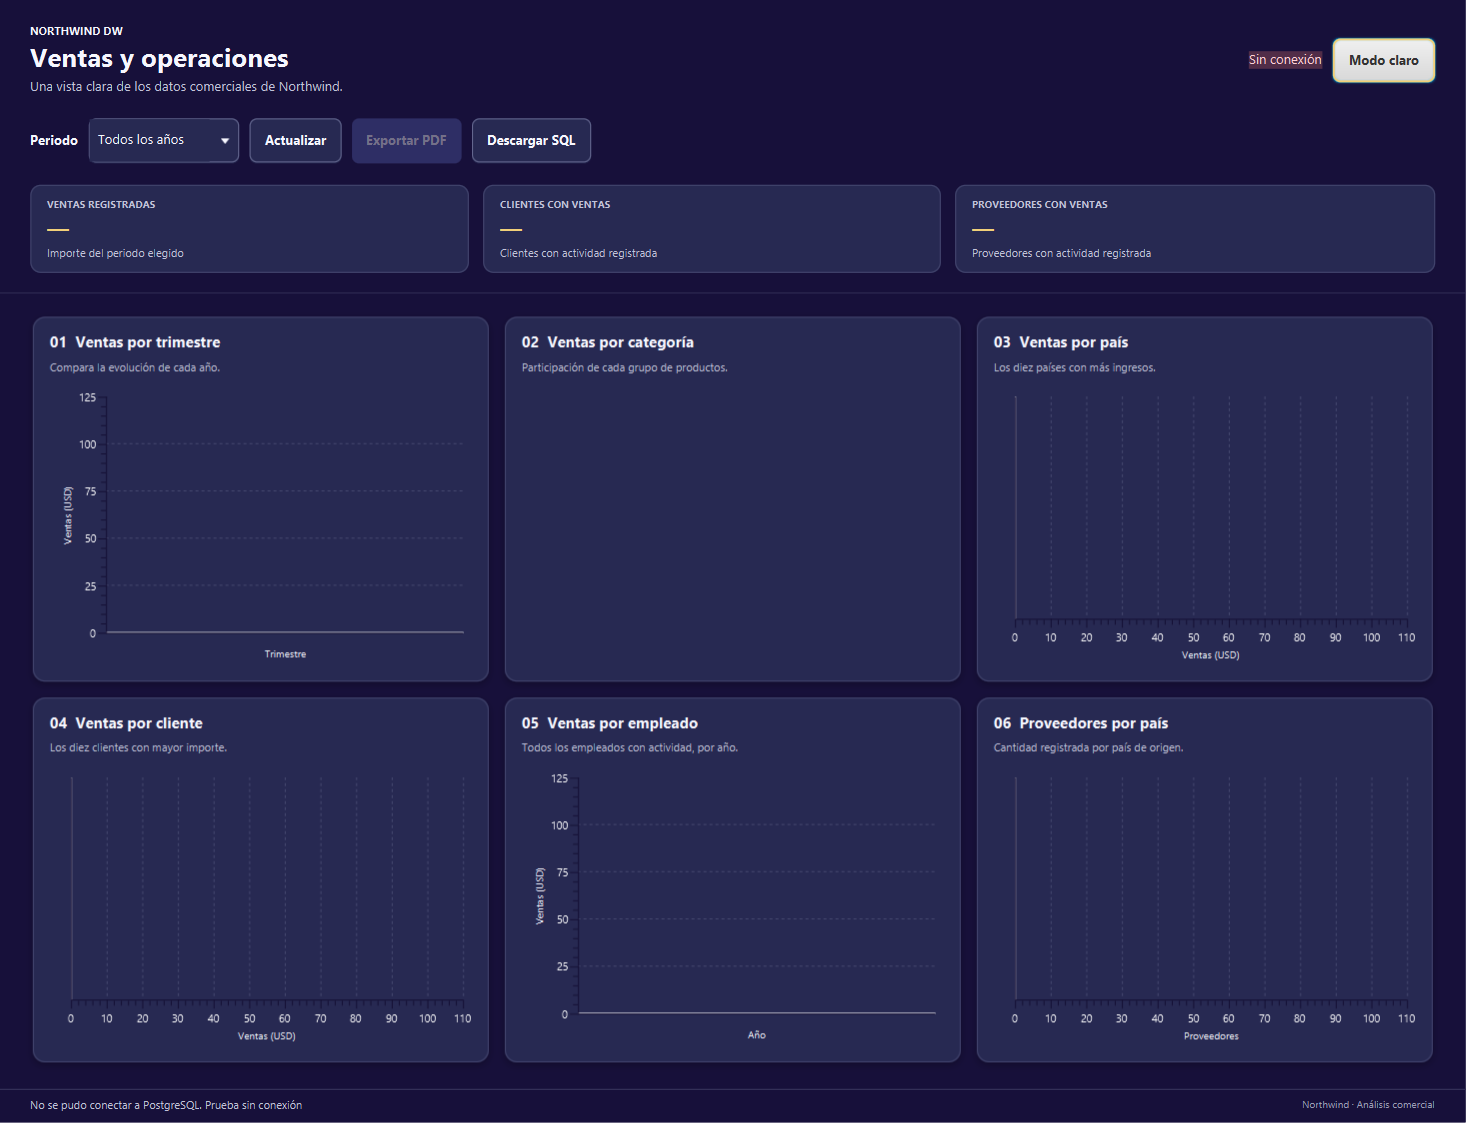
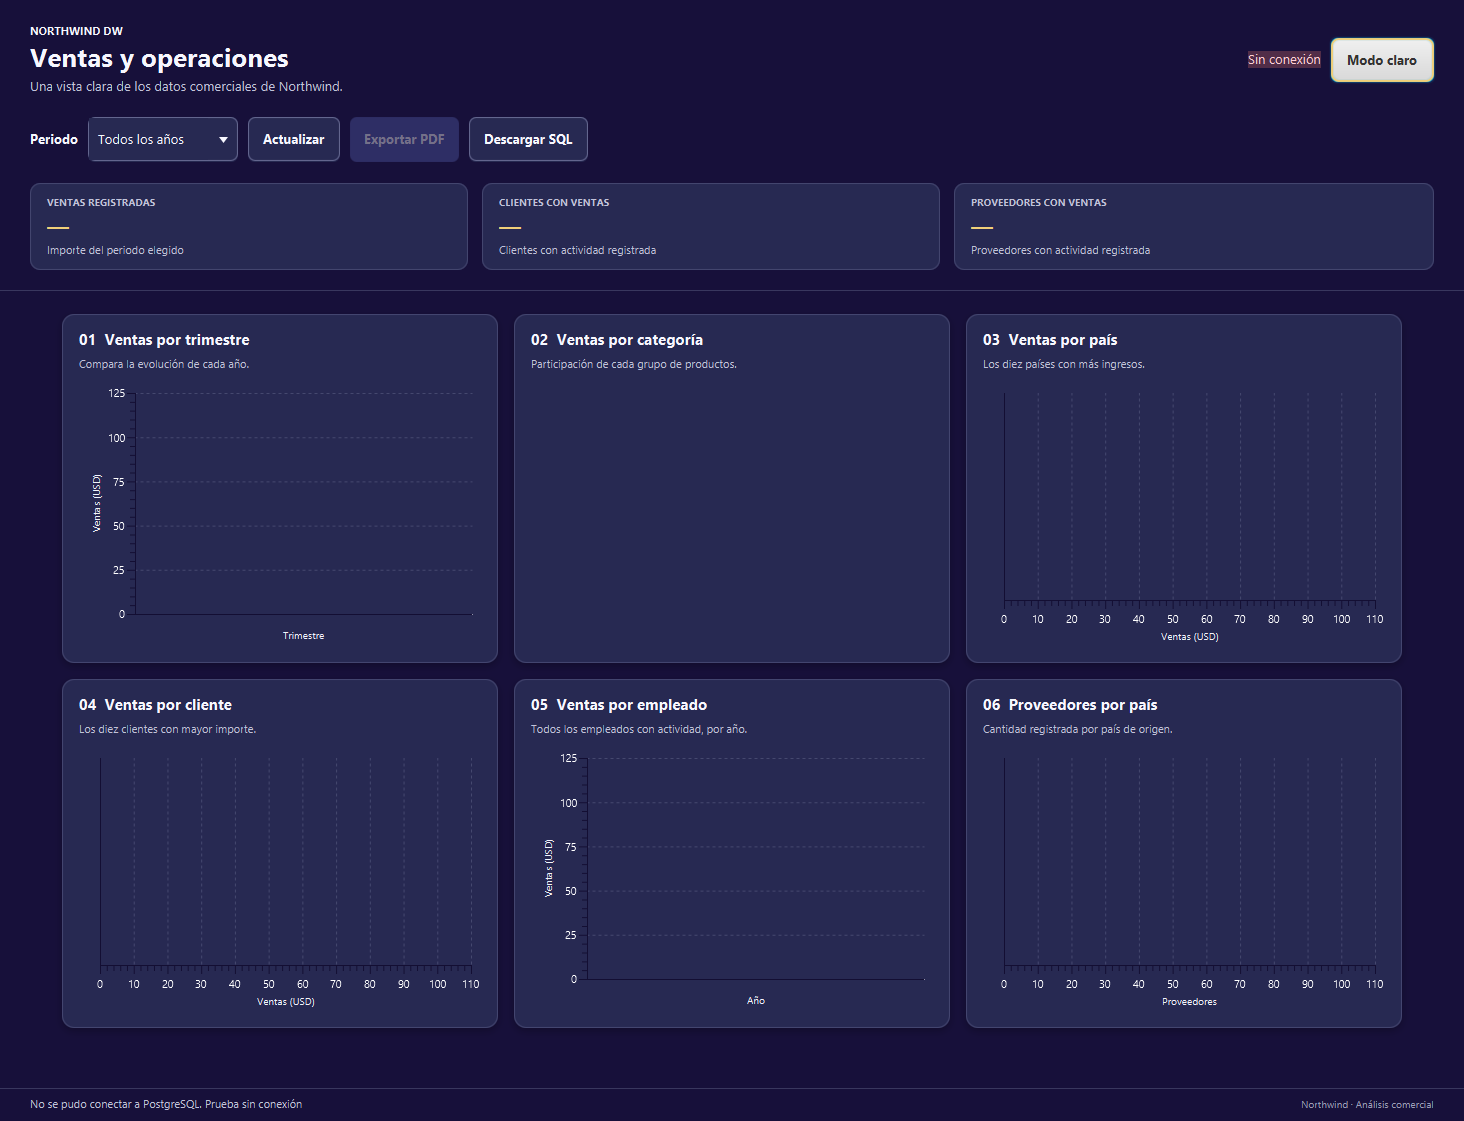
docs: document chart details and exports

diff --git a/src/test/java/com/northwinddw/ui/DashboardScreenshotTest.java b/src/test/java/com/northwinddw/ui/DashboardScreenshotTest.java
@@ -4,6 +4,7 @@ import com.northwinddw.Main;
 import com.northwinddw.data.DashboardDataSource;
 import com.northwinddw.service.DashboardExporter;
 import com.northwinddw.model.DashboardData;
+import com.northwinddw.model.DashboardReport;
 import com.northwinddw.model.RevenueSummary;
 import com.northwinddw.model.ReportRows.CategoryRevenue;
 import com.northwinddw.model.ReportRows.CountryRevenue;
@@ -55,9 +56,10 @@ class DashboardScreenshotTest {
         AtomicReference<Throwable> failure = new AtomicReference<>();
         DashboardData sample = sampleData();
         Platform.startup(() -> openWindow(year -> sample, null, DashboardTheme.LIGHT,
-                outputDirectory.resolve("dashboard.png"), outputDirectory.resolve("dashboard-dark.png"), () ->
+                outputDirectory.resolve("dashboard.png"), outputDirectory.resolve("dashboard-dark.png"),
+                outputDirectory.resolve("dashboard-detail.png"), outputDirectory.resolve("dashboard-detail-dark.png"), () ->
                 openWindow(null, "Prueba sin conexión", DashboardTheme.DARK,
-                        outputDirectory.resolve("connection-error.png"), null, () -> {
+                        outputDirectory.resolve("connection-error.png"), null, null, null, () -> {
                     Platform.exit();
                     complete.countDown();
                 }, preferences, failure, complete), preferences, failure, complete));
@@ -69,6 +71,8 @@ class DashboardScreenshotTest {
             }
             assertTrue(Files.size(outputDirectory.resolve("dashboard.png")) > 10_000);
             assertTrue(Files.size(outputDirectory.resolve("dashboard-dark.png")) > 10_000);
+            assertTrue(Files.size(outputDirectory.resolve("dashboard-detail.png")) > 10_000);
+            assertTrue(Files.size(outputDirectory.resolve("dashboard-detail-dark.png")) > 10_000);
             assertTrue(Files.size(outputDirectory.resolve("connection-error.png")) > 10_000);
         } finally {
             preferences.removeNode();
@@ -78,7 +82,8 @@ class DashboardScreenshotTest {
 
     private static void openWindow(DashboardDataSource source, String configurationError,
                                    DashboardTheme initialTheme, Path destination,
-                                   Path secondDestination, Runnable onCaptured, Preferences preferences,
+                                   Path secondDestination, Path detailDestination, Path detailDarkDestination,
+                                   Runnable onCaptured, Preferences preferences,
                                    AtomicReference<Throwable> failure, CountDownLatch complete) {
         try {
             DashboardExporter exporter = new DashboardExporter();
@@ -124,6 +129,11 @@ class DashboardScreenshotTest {
                                 themeChange.setOnFinished(themeEvent -> {
                                     try {
                                         saveSnapshot(root, secondDestination);
+                                        if (detailDestination != null) {
+                                            captureDetailThemes(loader, root, stage, controller, detailDestination,
+                                                    detailDarkDestination, onCaptured, failure, complete);
+                                            return;
+                                        }
                                         stage.close();
                                         controller.shutdown();
                                         onCaptured.run();
@@ -161,6 +171,57 @@ class DashboardScreenshotTest {
             Platform.exit();
             complete.countDown();
         }
+    }
+
+    private static void captureDetailThemes(FXMLLoader loader, Parent root, Stage stage,
+                                            DashboardController controller, Path lightDestination,
+                                            Path darkDestination, Runnable onCaptured,
+                                            AtomicReference<Throwable> failure, CountDownLatch complete) {
+        Button themeButton = (Button) loader.getNamespace().get("themeToggleButton");
+        themeButton.fire(); // dark to light
+        PauseTransition switchToLight = new PauseTransition(Duration.millis(350));
+        switchToLight.setOnFinished(event -> {
+            try {
+                controller.openDetail(DashboardReport.CATEGORY_REVENUE);
+                PauseTransition detailLayout = new PauseTransition(Duration.millis(450));
+                detailLayout.setOnFinished(detailEvent -> {
+                    try {
+                        saveSnapshot(root, lightDestination);
+                        themeButton.fire(); // light to dark
+                        PauseTransition switchToDark = new PauseTransition(Duration.millis(350));
+                        switchToDark.setOnFinished(darkEvent -> {
+                            try {
+                                saveSnapshot(root, darkDestination);
+                                stage.close();
+                                controller.shutdown();
+                                onCaptured.run();
+                            } catch (Throwable exception) {
+                                failure.set(exception);
+                                stage.close();
+                                controller.shutdown();
+                                Platform.exit();
+                                complete.countDown();
+                            }
+                        });
+                        switchToDark.play();
+                    } catch (Throwable exception) {
+                        failure.set(exception);
+                        stage.close();
+                        controller.shutdown();
+                        Platform.exit();
+                        complete.countDown();
+                    }
+                });
+                detailLayout.play();
+            } catch (Throwable exception) {
+                failure.set(exception);
+                stage.close();
+                controller.shutdown();
+                Platform.exit();
+                complete.countDown();
+            }
+        });
+        switchToLight.play();
     }
 
     private static DashboardData sampleData() {

diff --git a/docs/superpowers/plans/2026-10-26-chart-detail-export.md b/docs/superpowers/plans/2026-10-26-chart-detail-export.md
@@ -80,7 +80,7 @@
 - [x] **Step 2: Run the focused PDF test** with Maven; confirm the report-specific exporter method is missing.
 - [x] **Step 3: Implement `exportReportPdf`** with PDFBox and a single-page chart image scaled inside the printable area, followed by the matching report rows with overflow pagination.
 - [x] **Step 4: Run PDF exporter tests** and confirm the selected report, image, values, pagination, and unwritable-path error behavior pass.
-- [ ] **Step 5: Commit** as `feat: export individual report charts to PDF`.
+- [x] **Step 5: Commit** as `feat: export individual report charts to PDF` (`288b3a1`).
 
 ### Task 3: Add the detail view and persistent dashboard controls
 
@@ -103,7 +103,7 @@
 - [x] **Step 6: Reuse and restore the original chart node**, preserve scroll/selection on back, and keep chart sizing responsive when the detail viewport changes.
 - [x] **Step 7: Wire report-specific PDF export and the QR preview/save flow**, with errors shown beside the relevant action and the current theme applied to dialogs.
 - [x] **Step 8: Run the focused JavaFX tests** at wide and narrow widths and confirm all report, navigation, filtering, theme, and accessibility assertions pass.
-- [ ] **Step 9: Commit** as `feat: add responsive chart detail navigation`.
+- [x] **Step 9: Commit** as `feat: add responsive chart detail navigation` (`f84febd`).
 
 ### Task 4: Document and verify the completed feature
 
@@ -113,12 +113,12 @@
 - Modify: `README.md`
 - Modify: `scripts/verify.ps1` only if a new static dependency/license check is needed.
 
-- [ ] **Step 1: Capture the detail view** in dark and light themes using deterministic test data, save `dashboard-detail-dark.png` and `dashboard-detail.png`, and inspect both at desktop and narrow widths.
-- [ ] **Step 2: Add the detail screenshot and explain the drill-down, chart PDF, and QR behavior** in the README without replacing existing light/dark/error captures.
-- [ ] **Step 3: Run `.\scripts\verify.ps1 -WithDatabaseIntegration`** and confirm static checks, all tests, package build, database integration, and clean credential checks pass.
-- [ ] **Step 4: Launch `mvn javafx:run`** and manually verify all six cards, year changes, back navigation, theme toggle, chart PDF, and QR preview/save; use the ZXing round-trip test to verify scan readability.
-- [ ] **Step 5: Verify the working tree stays on `main`, `.env` remains ignored, and no project data or credentials entered Git.**
-- [ ] **Step 6: Commit** as `docs: document chart details and exports`.
+- [x] **Step 1: Capture the detail view** in dark and light themes using deterministic test data, save `dashboard-detail-dark.png` and `dashboard-detail.png`, and inspect both at desktop and narrow widths.
+- [x] **Step 2: Add the detail screenshot and explain the drill-down, chart PDF, and QR behavior** in the README without replacing existing light/dark/error captures.
+- [x] **Step 3: Run `.\scripts\verify.ps1 -WithDatabaseIntegration`** and confirm static checks, all tests, package build, database integration, and clean credential checks pass.
+- [x] **Step 4: Launch `mvn javafx:run`** and verify all six cards, keyboard/mouse navigation, year changes, theme, and responsive sizing in the JavaFX view test; use the live PostgreSQL app to confirm a chart PDF and QR preview/PNG save; use the ZXing round-trip test to verify QR readability.
+- [x] **Step 5: Verify the working tree stays on `main`, `.env` remains ignored, and no project data or credentials entered Git.**
+- [x] **Step 6: Commit** as `docs: document chart details and exports`.
 
 ## Self-review
 

diff --git a/README.md b/README.md
@@ -12,6 +12,12 @@ Las siguientes imágenes muestran ambos temas con valores de ejemplo:
 
 ![Tablero de ventas en modo claro](docs/screenshots/dashboard.png)
 
+Al elegir una tarjeta, puedes ver ese análisis a mayor tamaño. El detalle conserva los filtros y el tema, y permite regresar a la cuadrícula:
+
+![Detalle de un gráfico en modo claro](docs/screenshots/dashboard-detail.png)
+
+![Detalle de un gráfico en modo oscuro](docs/screenshots/dashboard-detail-dark.png)
+
 Si la aplicación no encuentra PostgreSQL, informa qué revisar y mantiene la ventana abierta:
 
 ![Tablero cuando no hay conexión con PostgreSQL](docs/screenshots/connection-error.png)
@@ -25,6 +31,8 @@ Si la aplicación no encuentra PostgreSQL, informa qué revisar y mantiene la ve
 - Ventas de cada empleado por año.
 - Cantidad de proveedores por país.
 - Filtro por año, resumen de ventas y descarga de informes en PDF o del archivo para preparar la base.
+- Detalle ampliado de cada gráfico, con una breve explicación y sus datos para el periodo elegido.
+- Exportación del gráfico seleccionado a PDF, o creación de un código QR con su resumen para guardarlo como imagen PNG.
 - Modo claro y oscuro, con la elección guardada para el próximo inicio.
 - Diseño que reorganiza las gráficas al cambiar el tamaño de la ventana.
 
@@ -49,6 +57,8 @@ Necesitas Java 21, Maven y PostgreSQL instalados. El proyecto incluye los datos 
    ```
 
 Al abrirse, el tablero consulta la base. Usa **Periodo** para elegir un año y **Actualizar** para volver a consultar. **Exportar PDF** guarda un informe con el resumen y los datos de los seis análisis; **Descargar SQL** guarda una copia del archivo de preparación de la base.
+
+Pulsa o selecciona con el teclado una tarjeta para abrirla. En el detalle puedes exportar solo ese gráfico a PDF o generar un QR que incluye su explicación, el periodo y sus cifras; el QR no necesita conexión a Internet y puedes guardarlo como PNG. **Regresar** devuelve la tarjeta al mismo tablero y mantiene el tema y los filtros seleccionados.
 
 En Apache NetBeans, recarga el proyecto Maven y elige **Ejecutar proyecto** para abrir la ventana.
 
